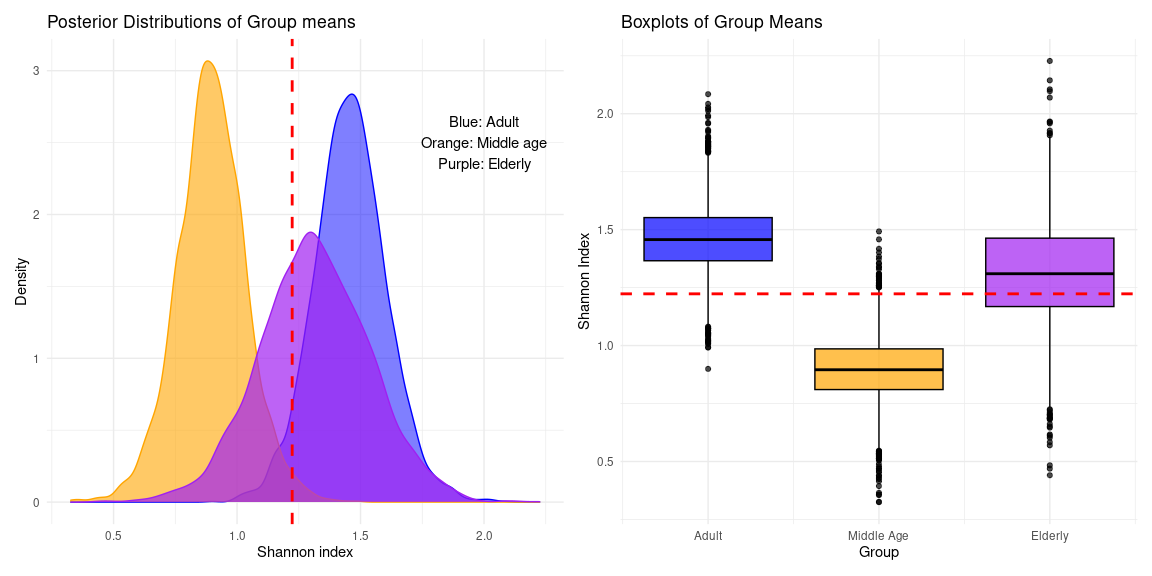
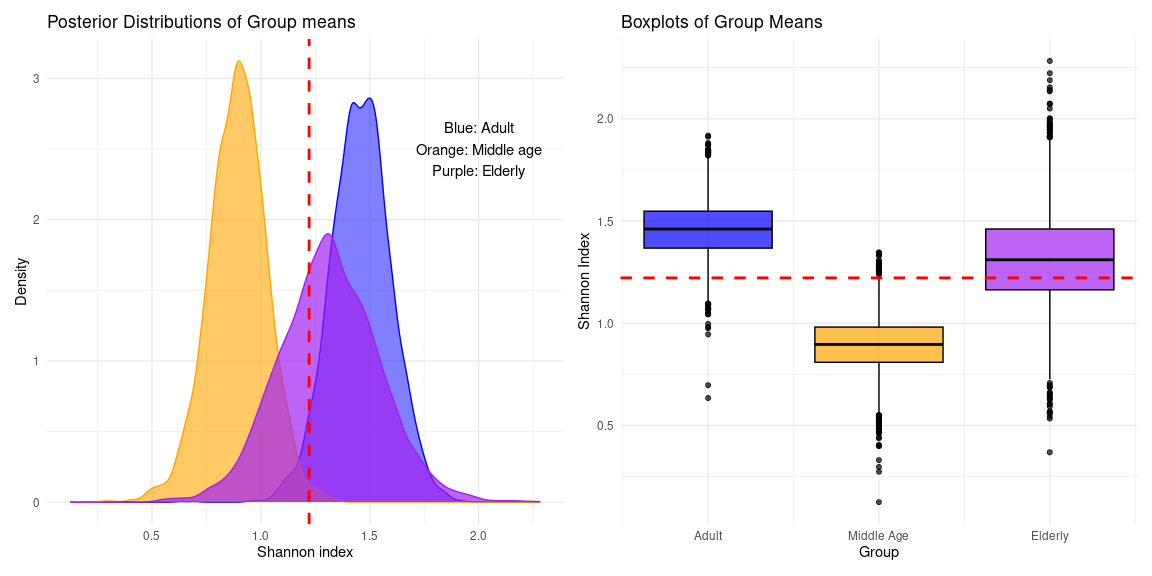
Update render

diff --git a/analysis/prob_workflow.md b/analysis/prob_workflow.md
@@ -284,16 +284,16 @@ summary(fit1)
 
     Regression Coefficients:
                         Estimate Est.Error l-95% CI u-95% CI Rhat Bulk_ESS Tail_ESS
-    AgeAdult                1.46      0.15     1.17     1.75 1.00     6334     2730
-    AgeElderly              1.31      0.22     0.89     1.75 1.00     5382     2662
-    AgeMiddle_age           0.90      0.14     0.62     1.18 1.00     5312     2515
-    sigma_AgeAdult         -0.45      0.16    -0.75    -0.11 1.00     5557     2854
-    sigma_AgeElderly       -0.11      0.18    -0.44     0.28 1.00     5080     2959
-    sigma_AgeMiddle_age    -0.71      0.20    -1.07    -0.27 1.00     5635     2862
+    AgeAdult                1.46      0.14     1.19     1.73 1.00     5897     3333
+    AgeElderly              1.31      0.23     0.87     1.77 1.00     5461     2140
+    AgeMiddle_age           0.89      0.13     0.62     1.15 1.00     4286     2815
+    sigma_AgeAdult         -0.45      0.17    -0.77    -0.12 1.00     4997     2937
+    sigma_AgeElderly       -0.11      0.18    -0.44     0.28 1.00     5040     3012
+    sigma_AgeMiddle_age    -0.71      0.20    -1.06    -0.29 1.00     5793     2772
 
     Further Distributional Parameters:
        Estimate Est.Error l-95% CI u-95% CI Rhat Bulk_ESS Tail_ESS
-    nu    24.24     14.54     5.65    60.60 1.00     4879     2791
+    nu    24.04     13.90     6.26    59.57 1.00     4949     2741
 
     Draws were sampled using sampling(NUTS). For each parameter, Bulk_ESS
     and Tail_ESS are effective sample size measures, and Rhat is the potential
@@ -346,12 +346,12 @@ summary(fit2)
     Multilevel Hyperparameters:
     ~Age (Number of levels: 3) 
                         Estimate Est.Error l-95% CI u-95% CI Rhat Bulk_ESS Tail_ESS
-    sd(Intercept)           1.73      0.86     0.73     4.02 1.00     2720     3962
-    sd(sigma_Intercept)     0.76      0.55     0.21     2.22 1.00     3127     6023
+    sd(Intercept)           1.75      0.87     0.74     4.06 1.00     2560     4863
+    sd(sigma_Intercept)     0.78      0.57     0.21     2.32 1.00     2973     5126
 
     Further Distributional Parameters:
        Estimate Est.Error l-95% CI u-95% CI Rhat Bulk_ESS Tail_ESS
-    nu    25.61     14.72     6.64    62.58 1.00    10059     8456
+    nu    25.50     14.87     6.39    63.34 1.00     9389     8518
 
     Draws were sampled using sampling(NUTS). For each parameter, Bulk_ESS
     and Tail_ESS are effective sample size measures, and Rhat is the potential
@@ -371,16 +371,16 @@ ranef(fit2)
     , , Intercept
 
                 Estimate Est.Error      Q2.5    Q97.5
-    Adult      1.4397865 0.1473100 1.1444998 1.726264
-    Elderly    1.2677900 0.2292560 0.8112987 1.717539
-    Middle_age 0.8796425 0.1476717 0.5813779 1.169977
+    Adult      1.4408922 0.1447409 1.1502943 1.724006
+    Elderly    1.2739779 0.2296565 0.8122614 1.726916
+    Middle_age 0.8798431 0.1464125 0.5850258 1.168177
 
     , , sigma_Intercept
 
                   Estimate Est.Error       Q2.5       Q97.5
-    Adult      -0.39954001 0.1652809 -0.7158165 -0.06501526
-    Elderly    -0.09580482 0.1770461 -0.4269630  0.26766440
-    Middle_age -0.60858026 0.2191166 -1.0017522 -0.13960889
+    Adult      -0.40188574 0.1661960 -0.7168476 -0.06183621
+    Elderly    -0.09785577 0.1780314 -0.4283673  0.27175229
+    Middle_age -0.61121179 0.2150387 -0.9964121 -0.15359631
 
 Notice that compiling the model takes some time, but refitting the model
 with `update()` is considerably faster. Switching to variational
@@ -402,12 +402,12 @@ loo(fit1, fit2)
     Computed from 4000 by 58 log-likelihood matrix.
 
              Estimate   SE
-    elpd_loo    -64.0  5.0
+    elpd_loo    -63.9  5.0
     p_loo         5.0  0.6
-    looic       128.0 10.0
+    looic       127.8 10.1
     ------
     MCSE of elpd_loo is 0.0.
-    MCSE and ESS estimates assume MCMC draws (r_eff in [1.0, 1.7]).
+    MCSE and ESS estimates assume MCMC draws (r_eff in [0.9, 1.6]).
 
     All Pareto k estimates are good (k < 0.7).
     See help('pareto-k-diagnostic') for details.
@@ -417,9 +417,9 @@ loo(fit1, fit2)
     Computed from 16000 by 58 log-likelihood matrix.
 
              Estimate  SE
-    elpd_loo    -64.1 4.7
-    p_loo         4.6 0.6
-    looic       128.2 9.3
+    elpd_loo    -64.0 4.7
+    p_loo         4.5 0.6
+    looic       128.0 9.3
     ------
     MCSE of elpd_loo is 0.0.
     MCSE and ESS estimates assume MCMC draws (r_eff in [0.6, 1.1]).
@@ -527,6 +527,6 @@ knitr::kable(summary_tbl, type = "pipe")
 
 | comparison | prob_g1_gt_g2 | log2fc_mean | log2fc_lower | log2fc_upper |
 |:---|---:|---:|---:|---:|
-| b_AgeAdult vs b_AgeElderly | 0.71625 | 0.1655600 | -0.3609709 | 0.7834714 |
-| b_AgeAdult vs b_AgeMiddle_age | 0.99500 | 0.7145385 | 0.2008145 | 1.3175862 |
-| b_AgeElderly vs b_AgeMiddle_age | 0.94600 | 0.5489785 | -0.1342306 | 1.2207370 |
+| b_AgeAdult vs b_AgeElderly | 0.71850 | 0.1691467 | -0.3689277 | 0.7996556 |
+| b_AgeAdult vs b_AgeMiddle_age | 0.99875 | 0.7189990 | 0.2352132 | 1.2972628 |
+| b_AgeElderly vs b_AgeMiddle_age | 0.94375 | 0.5498523 | -0.1350445 | 1.2249016 |
